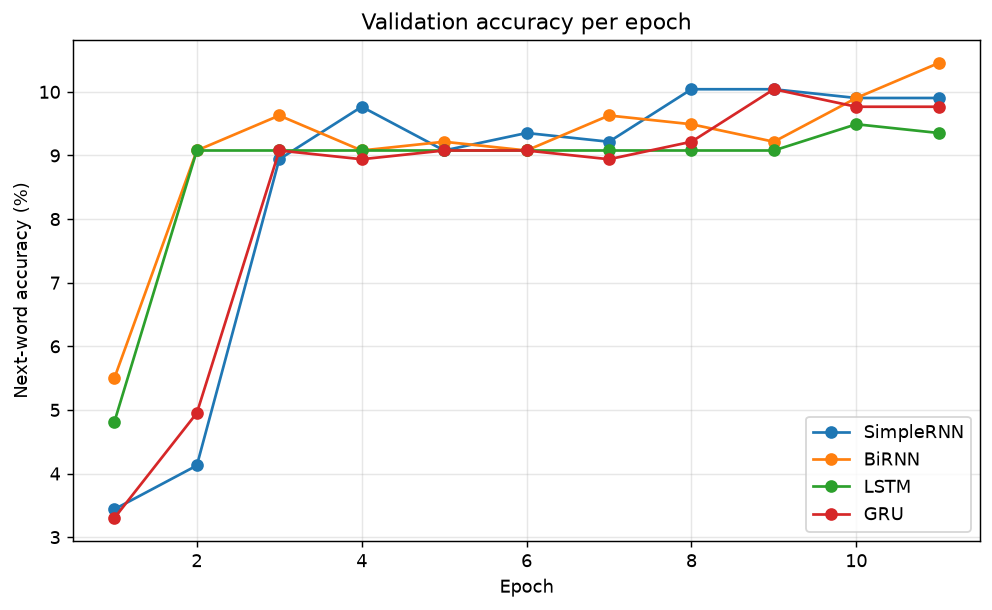
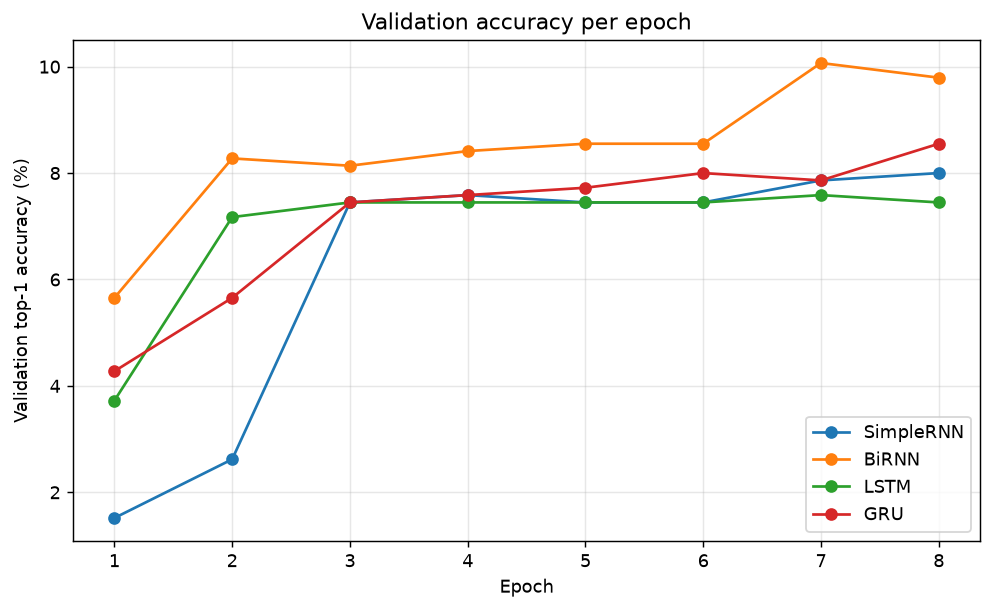
Update README, notebook, and accuracy curves figure

diff --git a/README.md b/README.md
@@ -156,7 +156,8 @@ Qualitative.
 
 The loss curves in figures/loss_curves.png show all four models improving sharply for the first three
 epochs and then slowly, with a widening train and validation gap, which means the models begin to
-overfit the small corpus after the initial epochs.
+overfit the small corpus after the initial epochs. The accuracy curves in figures/accuracy_curves.png
+show the same shape, with validation accuracy rising quickly and then flattening.
 
 ## 7. Sampling temperature analysis
 
@@ -218,6 +219,7 @@ would be expected to overtake the plain RNN.
         indian_fairy_tales_raw.txt  downloaded automatically on first run
       figures/
         loss_curves.png
+        accuracy_curves.png
         model_comparison.png
         temperature_diversity.png
       models/
